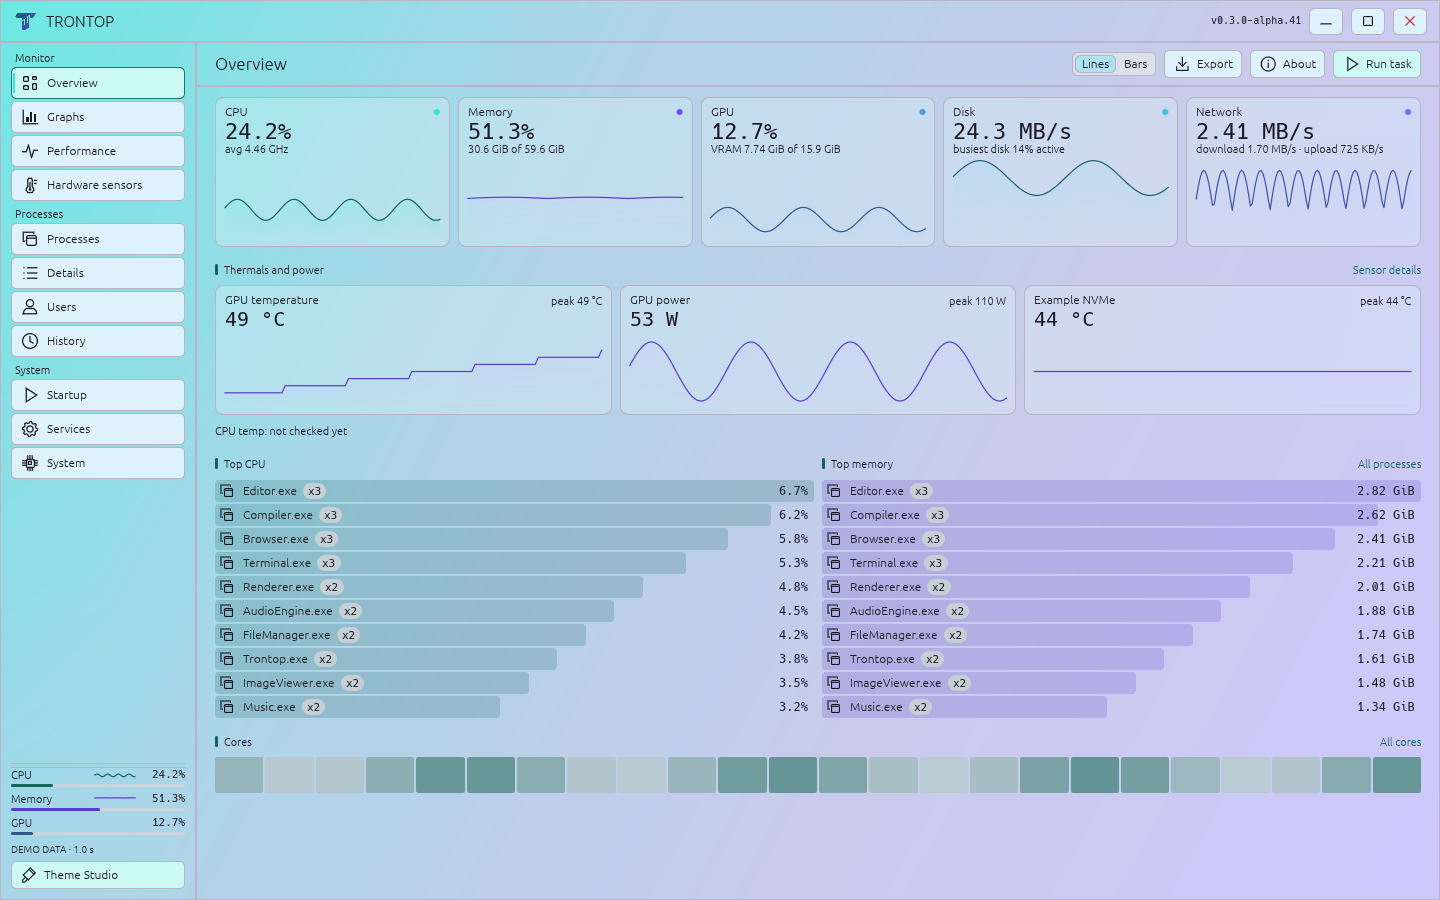
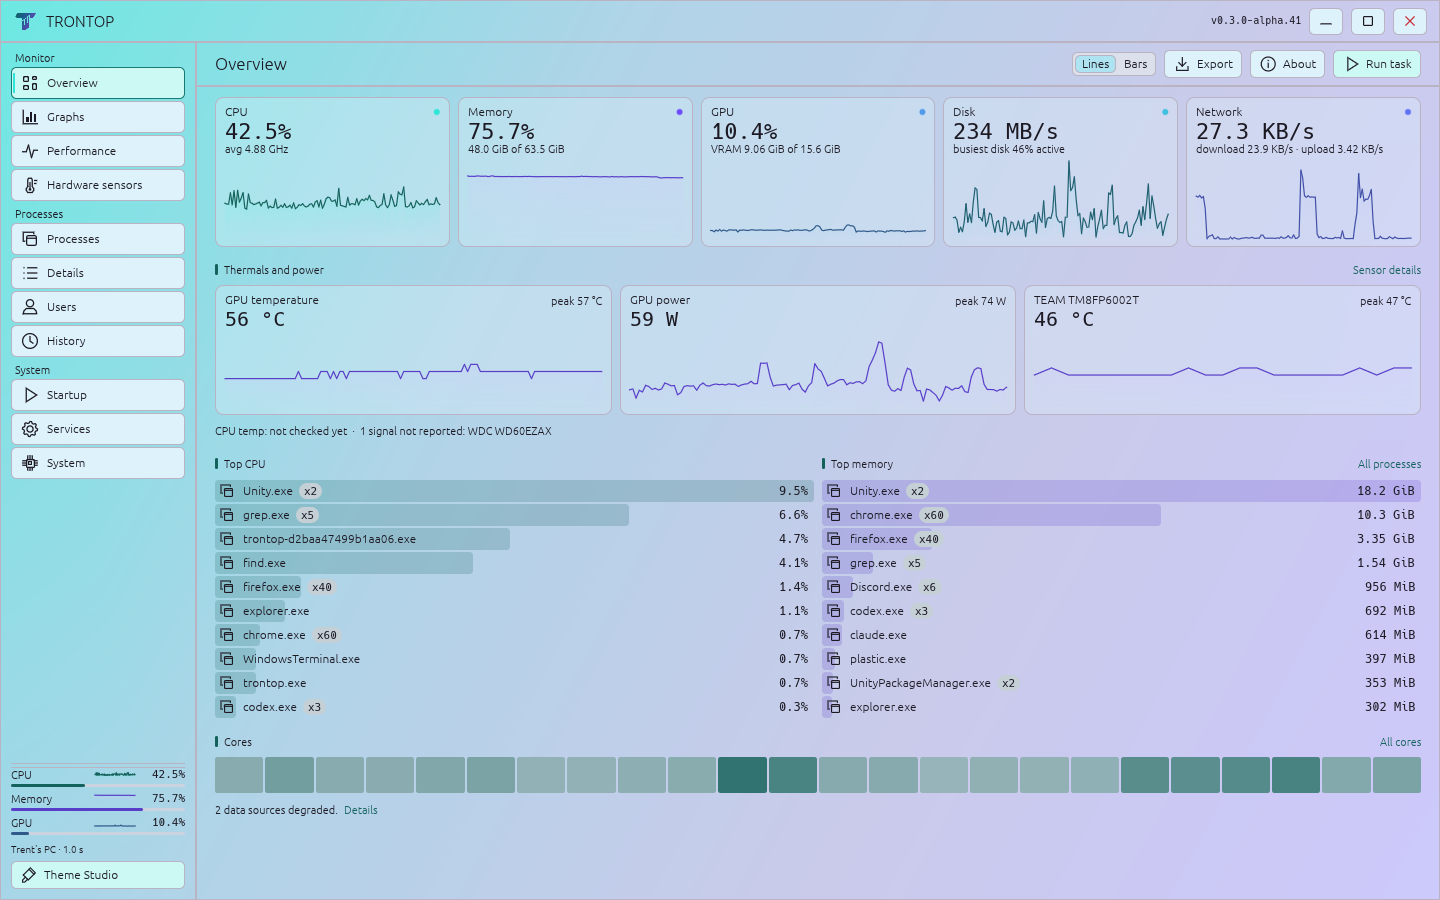
Replace demo waves with real Trontop telemetry captures

diff --git a/trontop/index.html b/trontop/index.html
@@ -14,7 +14,7 @@
   <meta property="og:description" content="A native Windows task manager with a serious color habit. Live telemetry, process trees, Theme Studio, and a portable download.">
   <meta property="og:image" content="https://tront.xyz/trontop/media/og.png">
   <meta property="og:image:width" content="1200"><meta property="og:image:height" content="630">
-  <meta property="og:image:alt" content="Trontop, a colorful Windows task manager, with three app themes shown using demo data.">
+  <meta property="og:image:alt" content="Trontop, a colorful Windows task manager, with three app themes showing real telemetry from Trent's PC.">
   <meta name="twitter:card" content="summary_large_image">
   <meta name="twitter:image" content="https://tront.xyz/trontop/media/og.png">
   <script>try { document.documentElement.dataset.mode = localStorage.getItem('trontop-site-mode') || (matchMedia('(prefers-color-scheme: light)').matches ? 'light' : 'dark'); } catch {}</script>
@@ -34,8 +34,8 @@
     <div class="hero-copy"><p class="eyebrow">A native Windows task manager</p><h1 id="hero-title">Your PC.<br><span>In full color.</span></h1><p class="lede">See what’s busy. Find what’s hungry. Make the whole thing yours.</p><div class="actions"><a class="button primary" href="#download">Get the Windows preview <span aria-hidden="true">↗</span></a><a class="text-link" href="https://github.com/TrentSterling/trontop">Read the source <span aria-hidden="true">↗</span></a></div></div>
     <div class="hero-preview">
       <div class="preview-tools"><span id="active-theme">Electric</span><div class="theme-switch" aria-label="Preview a theme"><button type="button" data-preview="electric" aria-pressed="true">Electric</button><button type="button" data-preview="spectrum" aria-pressed="false">Spectrum</button><button type="button" data-preview="carbon" aria-pressed="false">Carbon</button><button type="button" data-preview="daylight" aria-pressed="false">Daylight</button></div></div>
-      <a class="shot-link hero-shot" href="media/electric-overview.png" data-zoom><img id="hero-image" src="media/electric-overview.png" alt="Trontop Overview in the Electric theme, showing CPU, memory, GPU and process information with demo data" width="1440" height="900" fetchpriority="high"></a>
-      <p class="caption">Real Trontop UI, rendered with demo data. Select a theme or open the image for a closer look.</p>
+      <a class="shot-link hero-shot" href="media/electric-overview.png" data-zoom><img id="hero-image" src="media/electric-overview.png" alt="Trontop Overview in the Electric theme, showing CPU, memory, GPU and process information with real telemetry" width="1440" height="900" fetchpriority="high"></a>
+      <p class="caption">Real readings from my PC, captured through Trontop. Personal paths and command lines omitted. Select a theme or open the image for a closer look.</p>
       <p id="preview-status" class="sr-only" aria-live="polite"></p>
     </div>
   </section>
@@ -45,27 +45,27 @@
   <section id="themes" class="theme-section wrap" aria-labelledby="themes-title">
     <div class="section-intro"><h2 id="themes-title">Pick a mood.<br>Then mess with it.</h2><p>Quiet charcoal, bright gradients, or daylight. These twelve looks are downloadable themes, and every color stays editable.</p></div>
     <div class="theme-grid" id="theme-grid"><!-- THEME_GALLERY -->
-<figure class="theme-card"><a class="shot-link" href="media/trontstack-overview.png" data-zoom><img src="media/trontstack-overview.png" alt="Trontop Overview in the TrontStack theme, with demo data" width="1440" height="900" loading="lazy"></a><figcaption><span>TrontStack</span><a href="media/trontstack.json" download>Get theme JSON</a></figcaption></figure>
-<figure class="theme-card"><a class="shot-link" href="media/demigod-overview.png" data-zoom><img src="media/demigod-overview.png" alt="Trontop Overview in the Demigod theme, with demo data" width="1440" height="900" loading="lazy"></a><figcaption><span>Demigod</span><a href="media/demigod.json" download>Get theme JSON</a></figcaption></figure>
-<figure class="theme-card"><a class="shot-link" href="media/monke-portal-overview.png" data-zoom><img src="media/monke-portal-overview.png" alt="Trontop Overview in the Monke Portal theme, with demo data" width="1440" height="900" loading="lazy"></a><figcaption><span>Monke Portal</span><a href="media/monke-portal.json" download>Get theme JSON</a></figcaption></figure>
-<figure class="theme-card"><a class="shot-link" href="media/copper-legacy-overview.png" data-zoom><img src="media/copper-legacy-overview.png" alt="Trontop Overview in the Copper Legacy theme, with demo data" width="1440" height="900" loading="lazy"></a><figcaption><span>Copper Legacy</span><a href="media/copper-legacy.json" download>Get theme JSON</a></figcaption></figure>
-<figure class="theme-card"><a class="shot-link" href="media/porcelain-overview.png" data-zoom><img src="media/porcelain-overview.png" alt="Trontop Overview in the Porcelain theme, with demo data" width="1440" height="900" loading="lazy"></a><figcaption><span>Porcelain</span><a href="media/porcelain.json" download>Get theme JSON</a></figcaption></figure>
-<figure class="theme-card"><a class="shot-link" href="media/carbon-overview.png" data-zoom><img src="media/carbon-overview.png" alt="Trontop Overview in the Carbon theme, with demo data" width="1440" height="900" loading="lazy"></a><figcaption><span>Carbon</span><a href="media/carbon.json" download>Get theme JSON</a></figcaption></figure>
-<figure class="theme-card"><a class="shot-link" href="media/phosphor-overview.png" data-zoom><img src="media/phosphor-overview.png" alt="Trontop Overview in the Phosphor theme, with demo data" width="1440" height="900" loading="lazy"></a><figcaption><span>Phosphor</span><a href="media/phosphor.json" download>Get theme JSON</a></figcaption></figure>
-<figure class="theme-card"><a class="shot-link" href="media/vector-overview.png" data-zoom><img src="media/vector-overview.png" alt="Trontop Overview in the Vector theme, with demo data" width="1440" height="900" loading="lazy"></a><figcaption><span>Vector</span><a href="media/vector.json" download>Get theme JSON</a></figcaption></figure>
-<figure class="theme-card"><a class="shot-link" href="media/electric-overview.png" data-zoom><img src="media/electric-overview.png" alt="Trontop Overview in the Electric theme, with demo data" width="1440" height="900" loading="lazy"></a><figcaption><span>Electric</span><a href="media/electric.json" download>Get theme JSON</a></figcaption></figure>
-<figure class="theme-card"><a class="shot-link" href="media/ember-overview.png" data-zoom><img src="media/ember-overview.png" alt="Trontop Overview in the Ember theme, with demo data" width="1440" height="900" loading="lazy"></a><figcaption><span>Ember</span><a href="media/ember.json" download>Get theme JSON</a></figcaption></figure>
-<figure class="theme-card"><a class="shot-link" href="media/spectrum-overview.png" data-zoom><img src="media/spectrum-overview.png" alt="Trontop Overview in the Spectrum theme, with demo data" width="1440" height="900" loading="lazy"></a><figcaption><span>Spectrum</span><a href="media/spectrum.json" download>Get theme JSON</a></figcaption></figure>
-<figure class="theme-card"><a class="shot-link" href="media/daylight-overview.png" data-zoom><img src="media/daylight-overview.png" alt="Trontop Overview in the Daylight theme, with demo data" width="1440" height="900" loading="lazy"></a><figcaption><span>Daylight</span><a href="media/daylight.json" download>Get theme JSON</a></figcaption></figure>
+<figure class="theme-card"><a class="shot-link" href="media/trontstack-overview.png" data-zoom><img src="media/trontstack-overview.png" alt="Trontop Overview in the TrontStack theme, showing real telemetry from Trent's PC" width="1440" height="900" loading="lazy"></a><figcaption><span>TrontStack</span><a href="media/trontstack.json" download>Get theme JSON</a></figcaption></figure>
+<figure class="theme-card"><a class="shot-link" href="media/demigod-overview.png" data-zoom><img src="media/demigod-overview.png" alt="Trontop Overview in the Demigod theme, showing real telemetry from Trent's PC" width="1440" height="900" loading="lazy"></a><figcaption><span>Demigod</span><a href="media/demigod.json" download>Get theme JSON</a></figcaption></figure>
+<figure class="theme-card"><a class="shot-link" href="media/monke-portal-overview.png" data-zoom><img src="media/monke-portal-overview.png" alt="Trontop Overview in the Monke Portal theme, showing real telemetry from Trent's PC" width="1440" height="900" loading="lazy"></a><figcaption><span>Monke Portal</span><a href="media/monke-portal.json" download>Get theme JSON</a></figcaption></figure>
+<figure class="theme-card"><a class="shot-link" href="media/copper-legacy-overview.png" data-zoom><img src="media/copper-legacy-overview.png" alt="Trontop Overview in the Copper Legacy theme, showing real telemetry from Trent's PC" width="1440" height="900" loading="lazy"></a><figcaption><span>Copper Legacy</span><a href="media/copper-legacy.json" download>Get theme JSON</a></figcaption></figure>
+<figure class="theme-card"><a class="shot-link" href="media/porcelain-overview.png" data-zoom><img src="media/porcelain-overview.png" alt="Trontop Overview in the Porcelain theme, showing real telemetry from Trent's PC" width="1440" height="900" loading="lazy"></a><figcaption><span>Porcelain</span><a href="media/porcelain.json" download>Get theme JSON</a></figcaption></figure>
+<figure class="theme-card"><a class="shot-link" href="media/carbon-overview.png" data-zoom><img src="media/carbon-overview.png" alt="Trontop Overview in the Carbon theme, showing real telemetry from Trent's PC" width="1440" height="900" loading="lazy"></a><figcaption><span>Carbon</span><a href="media/carbon.json" download>Get theme JSON</a></figcaption></figure>
+<figure class="theme-card"><a class="shot-link" href="media/phosphor-overview.png" data-zoom><img src="media/phosphor-overview.png" alt="Trontop Overview in the Phosphor theme, showing real telemetry from Trent's PC" width="1440" height="900" loading="lazy"></a><figcaption><span>Phosphor</span><a href="media/phosphor.json" download>Get theme JSON</a></figcaption></figure>
+<figure class="theme-card"><a class="shot-link" href="media/vector-overview.png" data-zoom><img src="media/vector-overview.png" alt="Trontop Overview in the Vector theme, showing real telemetry from Trent's PC" width="1440" height="900" loading="lazy"></a><figcaption><span>Vector</span><a href="media/vector.json" download>Get theme JSON</a></figcaption></figure>
+<figure class="theme-card"><a class="shot-link" href="media/electric-overview.png" data-zoom><img src="media/electric-overview.png" alt="Trontop Overview in the Electric theme, showing real telemetry from Trent's PC" width="1440" height="900" loading="lazy"></a><figcaption><span>Electric</span><a href="media/electric.json" download>Get theme JSON</a></figcaption></figure>
+<figure class="theme-card"><a class="shot-link" href="media/ember-overview.png" data-zoom><img src="media/ember-overview.png" alt="Trontop Overview in the Ember theme, showing real telemetry from Trent's PC" width="1440" height="900" loading="lazy"></a><figcaption><span>Ember</span><a href="media/ember.json" download>Get theme JSON</a></figcaption></figure>
+<figure class="theme-card"><a class="shot-link" href="media/spectrum-overview.png" data-zoom><img src="media/spectrum-overview.png" alt="Trontop Overview in the Spectrum theme, showing real telemetry from Trent's PC" width="1440" height="900" loading="lazy"></a><figcaption><span>Spectrum</span><a href="media/spectrum.json" download>Get theme JSON</a></figcaption></figure>
+<figure class="theme-card"><a class="shot-link" href="media/daylight-overview.png" data-zoom><img src="media/daylight-overview.png" alt="Trontop Overview in the Daylight theme, showing real telemetry from Trent's PC" width="1440" height="900" loading="lazy"></a><figcaption><span>Daylight</span><a href="media/daylight.json" download>Get theme JSON</a></figcaption></figure>
 <!-- /THEME_GALLERY --></div>
     <p class="caption">Open any shot at full size. Download its JSON, then import it in Theme Studio.</p>
   </section>
 
   <section id="inside" class="inside wrap" aria-labelledby="inside-title">
     <div class="section-intro"><h2 id="inside-title">Pretty useful.</h2><p>The color is personal. The counters still have a job to do.</p></div>
-    <article class="feature-row"><div><span class="feature-number" aria-hidden="true">↳</span><h3>Find the hog.<br>Keep the context.</h3><p>Search process trees or switch to a flat list. Inspect a process without losing your place. End task stays within reach and asks for confirmation.</p><p class="detail">CPU affinity and priority controls are there when you need them, with Windows permission checks.</p></div><a class="shot-link" href="media/electric-processes.png" data-zoom><img src="media/electric-processes.png" alt="Process tree and pinned inspector in Trontop, with demo data" width="1440" height="900" loading="lazy"></a></article>
-    <article class="studio-feature"><div class="studio-copy"><h3>A theme editor.<br>Not just a theme menu.</h3><p>Move gradient stops. Push the intensity. Dial back the frost. Adjust text contrast, typography and scale.</p><p class="detail">Roll a ColorMagic palette and undo it if you want. Save, export and share your favorites. Even the T mark follows your colors.</p></div><a class="shot-link" href="media/electric-studio.png" data-zoom><img src="media/electric-studio.png" alt="Trontop Theme Studio with gradient stops, intensity and frost controls" width="1440" height="900" loading="lazy"></a></article>
-    <article class="chart-feature"><div><h3>Lines or bars.<br>Your call.</h3><p>Switch styles from the toolbar. Keep a history wall open, or let the animated tray meter show CPU activity while Trontop is tucked away.</p></div><div class="chart-pair"><figure><a class="shot-link" href="media/electric-bars.png" data-zoom><img src="media/electric-bars.png" alt="Overview with bar charts using demo data" width="1440" height="900" loading="lazy"></a><figcaption>Overview, with bars</figcaption></figure><figure><a class="shot-link" href="media/electric-graphs.png" data-zoom><img src="media/electric-graphs.png" alt="Trontop graph history wall using demo data" width="1440" height="900" loading="lazy"></a><figcaption>The graph wall</figcaption></figure></div></article>
+    <article class="feature-row"><div><span class="feature-number" aria-hidden="true">↳</span><h3>Find the hog.<br>Keep the context.</h3><p>Search process trees or switch to a flat list. Inspect a process without losing your place. End task stays within reach and asks for confirmation.</p><p class="detail">CPU affinity and priority controls are there when you need them, with Windows permission checks.</p></div><a class="shot-link" href="media/electric-processes.png" data-zoom><img src="media/electric-processes.png" alt="Process tree and pinned inspector in Trontop, with real telemetry" width="1440" height="900" loading="lazy"></a></article>
+    <article class="studio-feature"><div class="studio-copy"><h3>A theme editor.<br>Not just a theme menu.</h3><p>Inspired by Discord's theme system. Move gradient stops. Push the intensity. Dial back the frost. Adjust text contrast, typography and scale.</p><p class="detail">Roll a ColorMagic palette and undo it if you want. Save, export and share your favorites. Even the T mark follows your colors.</p></div><a class="shot-link" href="media/electric-studio.png" data-zoom><img src="media/electric-studio.png" alt="Trontop Theme Studio with gradient stops, intensity and frost controls" width="1440" height="900" loading="lazy"></a></article>
+    <article class="chart-feature"><div><h3>Lines or bars.<br>Your call.</h3><p>Switch styles from the toolbar. Keep a history wall open, or let the animated tray meter show CPU activity while Trontop is tucked away.</p></div><div class="chart-pair"><figure><a class="shot-link" href="media/electric-bars.png" data-zoom><img src="media/electric-bars.png" alt="Overview with bar charts using real telemetry" width="1440" height="900" loading="lazy"></a><figcaption>Overview, with bars</figcaption></figure><figure><a class="shot-link" href="media/electric-graphs.png" data-zoom><img src="media/electric-graphs.png" alt="Trontop graph history wall using real telemetry" width="1440" height="900" loading="lazy"></a><figcaption>The graph wall</figcaption></figure></div></article>
   </section>
 
   <section class="download wrap" id="download" aria-labelledby="download-title"><div><p class="eyebrow">Windows 11 x64 · Alpha preview</p><h2 id="download-title">Put some color<br>on your desktop.</h2><p>Free for personal and workplace use. Download the ZIP, extract it, and run <code>trontop.exe</code>.</p><a class="button primary" href="https://github.com/TrentSterling/trontop/releases/download/v0.3.0-alpha.41/trontop-0.3.0-alpha.41-windows-x64.zip">Download Windows ZIP <span aria-hidden="true">↓</span></a><p class="download-meta">Version 0.3.0-alpha.41. <a href="https://github.com/TrentSterling/trontop/releases/tag/v0.3.0-alpha.41">Release notes and SHA-256</a></p></div><div class="release-notes"><h3>Before you run it</h3><p>This early build is unsigned, so Windows may show an unknown-publisher warning. Check the release source and checksum before deciding to run it.</p><p>Sensor availability depends on your hardware and drivers. CPU temperature needs a supported external sensor source. Missing readings stay marked unavailable.</p><p>Clean-machine, broader hardware and some native dialog/service-action checks remain open. This is a development preview, not a stable release.</p></div></section>

diff --git a/trontop/site.js b/trontop/site.js
@@ -19,7 +19,7 @@ document.querySelectorAll('[data-preview]').forEach(button => button.addEventLis
     if (request !== previewRequest) return;
     const hero = document.querySelector('#hero-image');
     hero.src = image.src;
-    hero.alt = `Trontop Overview in the ${button.textContent} theme, rendered with demo data`;
+    hero.alt = `Trontop Overview in the ${button.textContent} theme, showing real telemetry from Trent's PC`;
     hero.closest('a').href = image.src;
     document.querySelector('#active-theme').textContent = button.textContent;
     document.querySelectorAll('[data-preview]').forEach(item => item.setAttribute('aria-pressed', String(item === button)));
